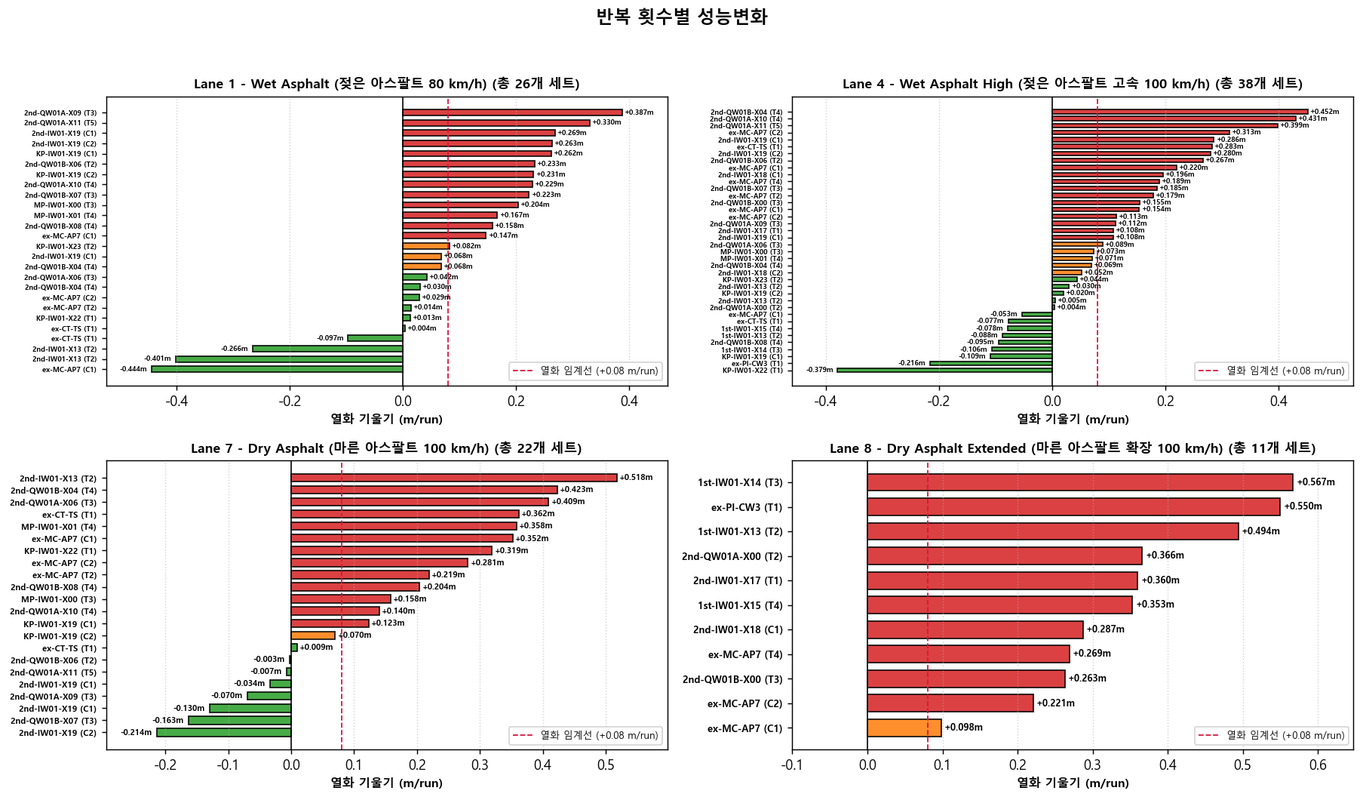
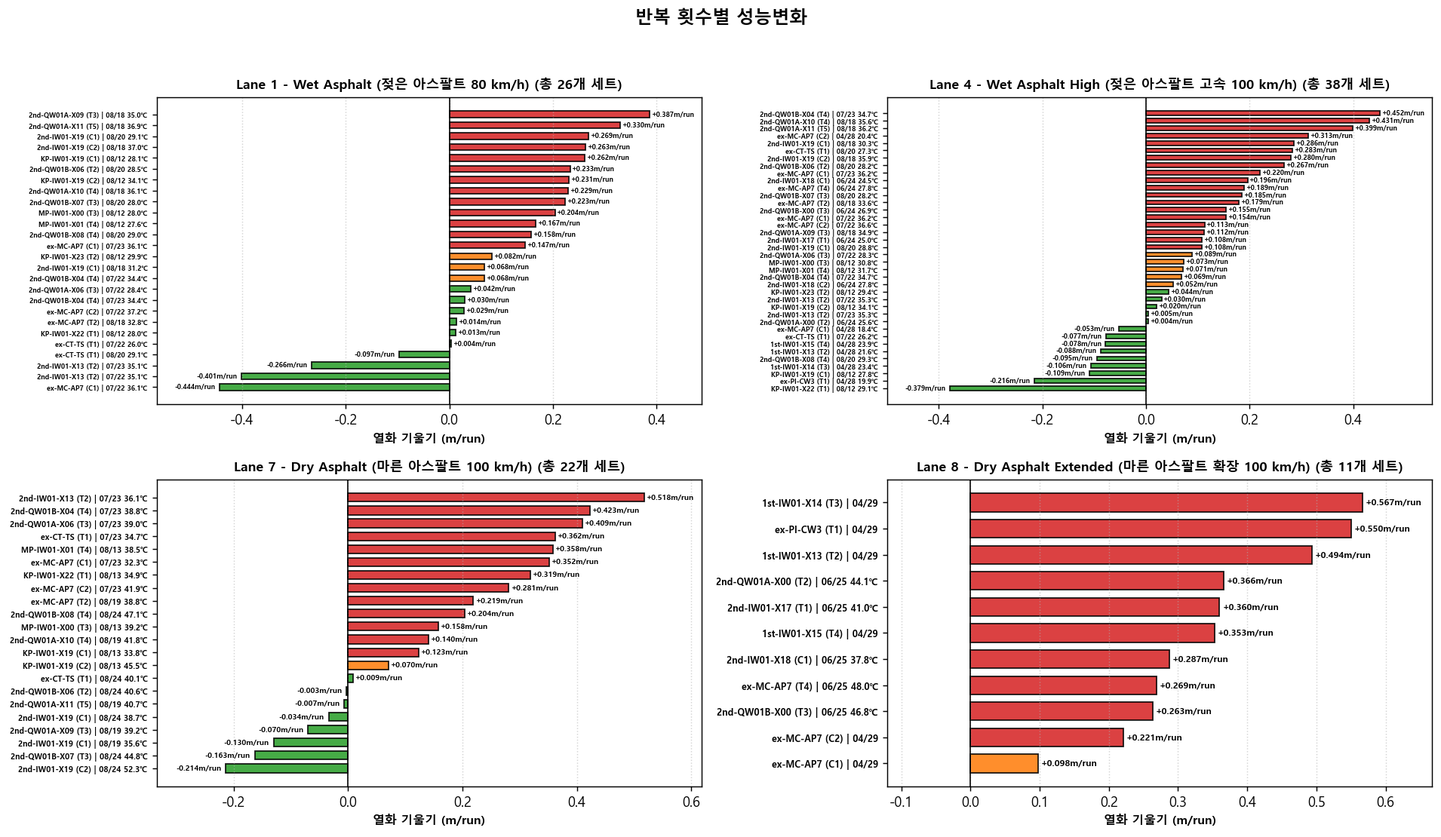
vault backup: 2026-09-16 17:30:54

Changed region(s): [[0.0, 0.0934, 1.0, 0.9962], [0.4339, 0.0, 0.5578, 0.0311]]

diff --git a/02_Projects/회사_업무/10_Braking_AutoBuild/10_EV3_IW01_Integrated_Braking_Analysis_Report.md b/02_Projects/회사_업무/10_Braking_AutoBuild/10_EV3_IW01_Integrated_Braking_Analysis_Report.md
@@ -23,7 +23,7 @@ project_link: "[[02_Projects/회사_업무/10_Braking_AutoBuild/00_Braking_AutoB
 # 🚗 EV3 IW01 실차 제동 성능 종합 공학 분석 마스터 리포트
 ### Engineering Whitepaper: Surface Separation, Control Baseline, Temperature Sensitivity & Anchor Recalibration
 
-> **보고서 생성일시**: `2026-09-16 17:06` | **분석 프로젝트**: `EV3 IW01 제동 평가 (2026)`  
+> **보고서 생성일시**: `2026-09-16 17:20` | **분석 프로젝트**: `EV3 IW01 제동 평가 (2026)`  
 > **시험 차량**: `기아 EV3 (FF Layout / EV)` | **시험 장소**: `TR 실차 주행시험장`  
 > **평가 노면**: `Wet (Lane 1, Lane 4)` / `Dry (Lane 7, Lane 8)` | **분석 데이터셋**: 총 97회차 평가 데이터
 
@@ -885,135 +885,135 @@ project_link: "[[02_Projects/회사_업무/10_Braking_AutoBuild/00_Braking_AutoB
 ### 9.1. 타이어 스펙별(몰드-패턴-마킹) 열화 내구성 & 안정성 종합 등급 매트릭스
 전체 시험 세션에 걸쳐 각 타이어 스펙이 8회 반복 제동 동안 보여준 런당 열화 기울기(Slope), 변동계수(CV), 최대 편차폭을 종합 평가한 등급표입니다.
 
-| 타이어 표기 (몰드-패턴-마킹) | 스펙넘버 | 몰드 | 패턴 | 마킹 | 세션수 | 총런수 | 평균거리(m) | 열화기울기(m/run) | 런CV(%) | 최대편차(m) | 안정성 등급 | 공학적 평가 소견 |
-| :--- | :--- | :--- | :--- | :--- | ---: | ---: | ---: | ---: | ---: | ---: | :--- | :--- |
-| KP-IW01-X22 | KPKT1033338X00022 | KP | IW01 | X22 | 3 | 15 | 38.85 | -0.02 | 1.59 | 2.56 | Grade A (우수) | 안정적인 반복 제동 성능을 유지하며 열화 억제력 우수 |
-| 1st-IW01-X13 | KPKT1033338X00013 | 1st | IW01 | X13 | 5 | 36 | 38.32 | 0.04 | 1.57 | 3.54 | Grade A (우수) | 안정적인 반복 제동 성능을 유지하며 열화 억제력 우수 |
-| KP-IW01-X23 | KPKT1033338X00023 | KP | IW01 | X23 | 2 | 8 | 31.71 | 0.06 | 0.56 | 0.69 | Grade A (우수) | 안정적인 반복 제동 성능을 유지하며 열화 억제력 우수 |
-| ex-CT-TS | EXT-2024-00280 | ex | CT | TS | 6 | 33 | 38.36 | 0.08 | 1.19 | 2.91 | Grade B- (열화 주의) | 런 차수가 증가함에 따라 제동거리가 점진적으로 늘어나는 페이드 경향 확인 |
-| 2nd-QW01B-X07 | KPKT1039980X00007 | 2nd | QW01B | X07 | 3 | 16 | 37.11 | 0.08 | 1.22 | 1.99 | Grade B- (열화 주의) | 런 차수가 증가함에 따라 제동거리가 점진적으로 늘어나는 페이드 경향 확인 |
-| 2nd-QW01B-X08 | KPKT1039979X00008 | 2nd | QW01B | X08 | 3 | 16 | 37.74 | 0.09 | 1.23 | 2.32 | Grade B- (열화 주의) | 런 차수가 증가함에 따라 제동거리가 점진적으로 늘어나는 페이드 경향 확인 |
-| KP-IW01-X19 | KPKT1033338X00019 | KP | IW01 | X19 | 9 | 78 | 37.41 | 0.10 | 1.21 | 2.27 | Grade B- (열화 주의) | 런 차수가 증가함에 따라 제동거리가 점진적으로 늘어나는 페이드 경향 확인 |
-| ex-MC-AP7 | EXT-2026-00147 | ex | MC | AP7 | 10 | 98 | 39.25 | 0.14 | 1.35 | 3.01 | Grade B- (열화 주의) | 런 차수가 증가함에 따라 제동거리가 점진적으로 늘어나는 페이드 경향 확인 |
-| 1st-IW01-X15 | KPKT1033338X00015 | 1st | IW01 | X15 | 2 | 13 | 38.73 | 0.14 | 1.40 | 1.92 | Grade B- (열화 주의) | 런 차수가 증가함에 따라 제동거리가 점진적으로 늘어나는 페이드 경향 확인 |
-| 2nd-QW01A-X09 | KPKT1039979X00009 | 2nd | QW01A | X09 | 3 | 16 | 37.29 | 0.14 | 1.40 | 2.28 | Grade B- (열화 주의) | 런 차수가 증가함에 따라 제동거리가 점진적으로 늘어나는 페이드 경향 확인 |
-| MP-IW01-X00 | MPKT1034557X00000 | MP | IW01 | X00 | 3 | 15 | 39.22 | 0.14 | 1.36 | 1.69 | Grade B- (열화 주의) | 런 차수가 증가함에 따라 제동거리가 점진적으로 늘어나는 페이드 경향 확인 |
-| 2nd-QW01B-X06 | KPKT1039980X00006 | 2nd | QW01B | X06 | 3 | 16 | 37.21 | 0.17 | 1.37 | 1.80 | Grade B- (열화 주의) | 런 차수가 증가함에 따라 제동거리가 점진적으로 늘어나는 페이드 경향 확인 |
-| ex-PI-CW3 | EXT-2026-00148 | ex | PI | CW3 | 2 | 13 | 37.61 | 0.17 | 2.60 | 3.49 | Grade B- (열화 주의) | 런 차수가 증가함에 따라 제동거리가 점진적으로 늘어나는 페이드 경향 확인 |
-| 2nd-IW01-X18 | KPKT1033338X00018 | 2nd | IW01 | X18 | 2 | 22 | 39.50 | 0.18 | 1.50 | 2.53 | Grade B- (열화 주의) | 런 차수가 증가함에 따라 제동거리가 점진적으로 늘어나는 페이드 경향 확인 |
-| 2nd-QW01A-X06 | KPKT1039979X00006 | 2nd | QW01A | X06 | 3 | 16 | 40.79 | 0.18 | 1.71 | 2.92 | Grade B- (열화 주의) | 런 차수가 증가함에 따라 제동거리가 점진적으로 늘어나는 페이드 경향 확인 |
-| 2nd-QW01A-X00 | KPKT1039979X00000 | 2nd | QW01A | X00 | 2 | 16 | 41.77 | 0.18 | 1.99 | 3.13 | Grade B- (열화 주의) | 런 차수가 증가함에 따라 제동거리가 점진적으로 늘어나는 페이드 경향 확인 |
-| MP-IW01-X01 | MPKT1034557X00001 | MP | IW01 | X01 | 3 | 15 | 39.26 | 0.20 | 1.34 | 3.01 | Grade B- (열화 주의) | 런 차수가 증가함에 따라 제동거리가 점진적으로 늘어나는 페이드 경향 확인 |
-| 2nd-QW01B-X04 | KPKT1039980X00004 | 2nd | QW01B | X04 | 3 | 23 | 37.84 | 0.21 | 1.25 | 3.16 | Grade B- (열화 주의) | 런 차수가 증가함에 따라 제동거리가 점진적으로 늘어나는 페이드 경향 확인 |
-| 2nd-QW01B-X00 | KPKT1039980X00000 | 2nd | QW01B | X00 | 2 | 16 | 41.36 | 0.21 | 2.06 | 2.91 | Grade B- (열화 주의) | 런 차수가 증가함에 따라 제동거리가 점진적으로 늘어나는 페이드 경향 확인 |
-| 1st-IW01-X14 | KPKT1033338X00014 | 1st | IW01 | X14 | 2 | 13 | 38.63 | 0.23 | 2.49 | 3.32 | Grade B- (열화 주의) | 런 차수가 증가함에 따라 제동거리가 점진적으로 늘어나는 페이드 경향 확인 |
-| 2nd-IW01-X17 | KPKT1033338X00017 | 2nd | IW01 | X17 | 2 | 15 | 41.88 | 0.23 | 2.00 | 4.24 | Grade B- (열화 주의) | 런 차수가 증가함에 따라 제동거리가 점진적으로 늘어나는 페이드 경향 확인 |
-| 2nd-QW01A-X11 | KPKT1039979X00011 | 2nd | QW01A | X11 | 3 | 16 | 37.37 | 0.24 | 1.55 | 2.07 | Grade B- (열화 주의) | 런 차수가 증가함에 따라 제동거리가 점진적으로 늘어나는 페이드 경향 확인 |
-| 2nd-QW01A-X10 | KPKT1039979X00010 | 2nd | QW01A | X10 | 3 | 16 | 37.27 | 0.27 | 1.42 | 1.47 | Grade B- (열화 주의) | 런 차수가 증가함에 따라 제동거리가 점진적으로 늘어나는 페이드 경향 확인 |
+| 타이어 표기 (몰드-패턴-마킹) | 스펙넘버 | 몰드 | 패턴 | 마킹 | 시험일자 | 평균노면온도(℃) | 세션수 | 총런수 | 평균거리(m) | 열화기울기(m/run) | 런CV(%) | 최대편차(m) | 안정성 등급 | 공학적 평가 소견 |
+| :--- | :--- | :--- | :--- | :--- | :--- | ---: | ---: | ---: | ---: | ---: | ---: | ---: | :--- | :--- |
+| KP-IW01-X22 | KPKT1033338X00022 | KP | IW01 | X22 | 08/12~08/13 | 30.70 | 3 | 15 | 38.85 | -0.02 | 1.59 | 2.56 | Grade A (우수) | 안정적인 반복 제동 성능을 유지하며 열화 억제력 우수 |
+| 1st-IW01-X13 | KPKT1033338X00013 | 1st | IW01 | X13 | 04/28~07/23 | 33.10 | 5 | 36 | 38.32 | 0.04 | 1.57 | 3.54 | Grade A (우수) | 안정적인 반복 제동 성능을 유지하며 열화 억제력 우수 |
+| KP-IW01-X23 | KPKT1033338X00023 | KP | IW01 | X23 | 08/12 | 29.60 | 2 | 8 | 31.71 | 0.06 | 0.56 | 0.69 | Grade A (우수) | 안정적인 반복 제동 성능을 유지하며 열화 억제력 우수 |
+| ex-CT-TS | EXT-2024-00280 | ex | CT | TS | 07/22~08/24 | 30.60 | 6 | 33 | 38.36 | 0.08 | 1.19 | 2.91 | Grade B- (열화 주의) | 런 차수가 증가함에 따라 제동거리가 점진적으로 늘어나는 페이드 경향 확인 |
+| 2nd-QW01B-X07 | KPKT1039980X00007 | 2nd | QW01B | X07 | 08/20~08/24 | 33.70 | 3 | 16 | 37.11 | 0.08 | 1.22 | 1.99 | Grade B- (열화 주의) | 런 차수가 증가함에 따라 제동거리가 점진적으로 늘어나는 페이드 경향 확인 |
+| 2nd-QW01B-X08 | KPKT1039979X00008 | 2nd | QW01B | X08 | 08/20~08/24 | 35.10 | 3 | 16 | 37.74 | 0.09 | 1.23 | 2.32 | Grade B- (열화 주의) | 런 차수가 증가함에 따라 제동거리가 점진적으로 늘어나는 페이드 경향 확인 |
+| KP-IW01-X19 | KPKT1033338X00019 | KP | IW01 | X19 | 08/12~08/24 | 34.80 | 9 | 78 | 37.41 | 0.10 | 1.21 | 2.27 | Grade B- (열화 주의) | 런 차수가 증가함에 따라 제동거리가 점진적으로 늘어나는 페이드 경향 확인 |
+| ex-MC-AP7 | EXT-2026-00147 | ex | MC | AP7 | 04/28~08/19 | 34.20 | 10 | 98 | 39.25 | 0.14 | 1.35 | 3.01 | Grade B- (열화 주의) | 런 차수가 증가함에 따라 제동거리가 점진적으로 늘어나는 페이드 경향 확인 |
+| 1st-IW01-X15 | KPKT1033338X00015 | 1st | IW01 | X15 | 04/28~04/29 | 23.90 | 2 | 13 | 38.73 | 0.14 | 1.40 | 1.92 | Grade B- (열화 주의) | 런 차수가 증가함에 따라 제동거리가 점진적으로 늘어나는 페이드 경향 확인 |
+| 2nd-QW01A-X09 | KPKT1039979X00009 | 2nd | QW01A | X09 | 08/18~08/19 | 36.40 | 3 | 16 | 37.29 | 0.14 | 1.40 | 2.28 | Grade B- (열화 주의) | 런 차수가 증가함에 따라 제동거리가 점진적으로 늘어나는 페이드 경향 확인 |
+| MP-IW01-X00 | MPKT1034557X00000 | MP | IW01 | X00 | 08/12~08/13 | 32.70 | 3 | 15 | 39.22 | 0.14 | 1.36 | 1.69 | Grade B- (열화 주의) | 런 차수가 증가함에 따라 제동거리가 점진적으로 늘어나는 페이드 경향 확인 |
+| 2nd-QW01B-X06 | KPKT1039980X00006 | 2nd | QW01B | X06 | 08/20~08/24 | 32.40 | 3 | 16 | 37.21 | 0.17 | 1.37 | 1.80 | Grade B- (열화 주의) | 런 차수가 증가함에 따라 제동거리가 점진적으로 늘어나는 페이드 경향 확인 |
+| ex-PI-CW3 | EXT-2026-00148 | ex | PI | CW3 | 04/28~04/29 | 19.90 | 2 | 13 | 37.61 | 0.17 | 2.60 | 3.49 | Grade B- (열화 주의) | 런 차수가 증가함에 따라 제동거리가 점진적으로 늘어나는 페이드 경향 확인 |
+| 2nd-IW01-X18 | KPKT1033338X00018 | 2nd | IW01 | X18 | 06/24~06/25 | 30.00 | 2 | 22 | 39.50 | 0.18 | 1.50 | 2.53 | Grade B- (열화 주의) | 런 차수가 증가함에 따라 제동거리가 점진적으로 늘어나는 페이드 경향 확인 |
+| 2nd-QW01A-X06 | KPKT1039979X00006 | 2nd | QW01A | X06 | 07/22~07/23 | 31.90 | 3 | 16 | 40.79 | 0.18 | 1.71 | 2.92 | Grade B- (열화 주의) | 런 차수가 증가함에 따라 제동거리가 점진적으로 늘어나는 페이드 경향 확인 |
+| 2nd-QW01A-X00 | KPKT1039979X00000 | 2nd | QW01A | X00 | 06/24~06/25 | 34.90 | 2 | 16 | 41.77 | 0.18 | 1.99 | 3.13 | Grade B- (열화 주의) | 런 차수가 증가함에 따라 제동거리가 점진적으로 늘어나는 페이드 경향 확인 |
+| MP-IW01-X01 | MPKT1034557X00001 | MP | IW01 | X01 | 08/12~08/13 | 32.60 | 3 | 15 | 39.26 | 0.20 | 1.34 | 3.01 | Grade B- (열화 주의) | 런 차수가 증가함에 따라 제동거리가 점진적으로 늘어나는 페이드 경향 확인 |
+| 2nd-QW01B-X04 | KPKT1039980X00004 | 2nd | QW01B | X04 | 07/22~07/23 | 35.40 | 3 | 23 | 37.84 | 0.21 | 1.25 | 3.16 | Grade B- (열화 주의) | 런 차수가 증가함에 따라 제동거리가 점진적으로 늘어나는 페이드 경향 확인 |
+| 2nd-QW01B-X00 | KPKT1039980X00000 | 2nd | QW01B | X00 | 06/24~06/25 | 36.80 | 2 | 16 | 41.36 | 0.21 | 2.06 | 2.91 | Grade B- (열화 주의) | 런 차수가 증가함에 따라 제동거리가 점진적으로 늘어나는 페이드 경향 확인 |
+| 1st-IW01-X14 | KPKT1033338X00014 | 1st | IW01 | X14 | 04/28~04/29 | 23.40 | 2 | 13 | 38.63 | 0.23 | 2.49 | 3.32 | Grade B- (열화 주의) | 런 차수가 증가함에 따라 제동거리가 점진적으로 늘어나는 페이드 경향 확인 |
+| 2nd-IW01-X17 | KPKT1033338X00017 | 2nd | IW01 | X17 | 06/24~06/25 | 33.00 | 2 | 15 | 41.88 | 0.23 | 2.00 | 4.24 | Grade B- (열화 주의) | 런 차수가 증가함에 따라 제동거리가 점진적으로 늘어나는 페이드 경향 확인 |
+| 2nd-QW01A-X11 | KPKT1039979X00011 | 2nd | QW01A | X11 | 08/18~08/19 | 37.90 | 3 | 16 | 37.37 | 0.24 | 1.55 | 2.07 | Grade B- (열화 주의) | 런 차수가 증가함에 따라 제동거리가 점진적으로 늘어나는 페이드 경향 확인 |
+| 2nd-QW01A-X10 | KPKT1039979X00010 | 2nd | QW01A | X10 | 08/18~08/19 | 37.80 | 3 | 16 | 37.27 | 0.27 | 1.42 | 1.47 | Grade B- (열화 주의) | 런 차수가 증가함에 따라 제동거리가 점진적으로 늘어나는 페이드 경향 확인 |
 
 
 ### 9.2. 세부 세션별 8회 반복 제동 순차 실측치(Run 1 ~ Run 8) 전개 피벗 표
 각 시험 의뢰서 및 레인별로 평가된 모든 타이어 세트의 1회차부터 8회차까지의 실측 제동거리와 통계치입니다.
 
-| 의뢰번호 | 레인 | 노면 | 세트 | 타이어 표기 (몰드-패턴-마킹) | 스펙넘버 | 1회(m) | 2회(m) | 3회(m) | 4회(m) | 5회(m) | 6회(m) | 7회(m) | 8회(m) | 평균(m) | CV(%) | 편차(m) | 기울기(m/run) | 거동판정 |
-| :--- | :--- | :--- | :--- | :--- | :--- | ---: | ---: | ---: | ---: | ---: | ---: | ---: | ---: | ---: | ---: | ---: | ---: | :--- |
-| 26RE040025KF | lane4 | wet | C1 | ex-MC-AP7 | EXT-2026-00147 | 33.43 | 32.04 | 33.23 | 32.37 | 32.88 | 32.72 | - | - | 32.78 | 1.59 | 1.39 | -0.05 | 안정적 (Stable) |
-| 26RE040025KF | lane4 | wet | C2 | ex-MC-AP7 | EXT-2026-00147 | 32.36 | 33.11 | 33.52 | 33.24 | 33.86 | - | - | - | 33.22 | 1.69 | 1.50 | 0.31 | ⚠ 점진적 열화 (Fade) |
-| 26RE040025KF | lane4 | wet | T1 | ex-PI-CW3 | EXT-2026-00148 | 31.58 | 30.71 | 31.25 | 31.30 | 29.65 | 30.70 | - | - | 30.87 | 2.24 | 1.93 | -0.22 | ❄ 웜업/접지 향상 (Warm-up) |
-| 26RE040025KF | lane4 | wet | T2 | 1st-IW01-X13 | KPKT1033338X00013 | 32.52 | 31.66 | 31.57 | 32.57 | 31.44 | 31.84 | - | - | 31.93 | 1.54 | 1.13 | -0.09 | 안정적 (Stable) |
-| 26RE040025KF | lane4 | wet | T3 | 1st-IW01-X14 | KPKT1033338X00014 | 32.71 | 31.21 | 32.49 | 31.00 | 31.51 | 32.09 | - | - | 31.83 | 2.20 | 1.71 | -0.11 | ❄ 웜업/접지 향상 (Warm-up) |
-| 26RE040025KF | lane4 | wet | T4 | 1st-IW01-X15 | KPKT1033338X00015 | 32.13 | 32.03 | 31.86 | 31.19 | 31.82 | 31.84 | - | - | 31.81 | 1.03 | 0.94 | -0.08 | 안정적 (Stable) |
-| 26RE040025KF | lane8 | dry | C1 | ex-MC-AP7 | EXT-2026-00147 | 43.09 | 43.81 | 43.32 | 43.26 | 44.11 | 43.01 | 44.27 | - | 43.55 | 1.17 | 1.26 | 0.10 | 안정적 (Stable) |
-| 26RE040025KF | lane8 | dry | C2 | ex-MC-AP7 | EXT-2026-00147 | 43.00 | 43.52 | 43.29 | 43.35 | 43.78 | 44.78 | 44.06 | - | 43.68 | 1.36 | 1.78 | 0.22 | ⚠ 점진적 열화 (Fade) |
-| 26RE040025KF | lane8 | dry | T1 | ex-PI-CW3 | EXT-2026-00148 | 41.32 | 42.61 | 42.41 | 44.32 | 43.99 | 44.28 | 44.81 | - | 43.39 | 2.96 | 3.49 | 0.55 | ⚠ 점진적 열화 (Fade) |
-| 26RE040025KF | lane8 | dry | T2 | 1st-IW01-X13 | KPKT1033338X00013 | 43.32 | 42.70 | 44.48 | 44.89 | 44.27 | 45.78 | 45.95 | - | 44.49 | 2.69 | 3.25 | 0.49 | ⚠ 점진적 열화 (Fade) |
-| 26RE040025KF | lane8 | dry | T3 | 1st-IW01-X14 | KPKT1033338X00014 | 42.70 | 43.31 | 43.78 | 44.77 | 45.03 | 45.64 | 46.03 | - | 44.46 | 2.77 | 3.32 | 0.57 | ⚠ 점진적 열화 (Fade) |
-| 26RE040025KF | lane8 | dry | T4 | 1st-IW01-X15 | KPKT1033338X00015 | 43.86 | 43.76 | 44.24 | 44.43 | 45.23 | 45.47 | 45.68 | - | 44.67 | 1.76 | 1.92 | 0.35 | ⚠ 점진적 열화 (Fade) |
-| 26RE060023KF | lane4 | wet | C1 | 2nd-IW01-X18 | KPKT1033338X00018 | 33.83 | 34.14 | 34.08 | 34.36 | 35.18 | 35.29 | 34.53 | - | 34.49 | 1.61 | 1.46 | 0.20 | ⚠ 점진적 열화 (Fade) |
-| 26RE060023KF | lane4 | wet | C2 | 2nd-IW01-X18 | KPKT1033338X00018 | 34.84 | 35.17 | 36.13 | 35.09 | 35.58 | 35.24 | 35.47 | - | 35.36 | 1.18 | 1.29 | 0.05 | 안정적 (Stable) |
-| 26RE060023KF | lane4 | wet | T1 | 2nd-IW01-X17 | KPKT1033338X00017 | 34.96 | 35.11 | 35.11 | 34.55 | 35.66 | 34.91 | 35.92 | - | 35.18 | 1.32 | 1.37 | 0.11 | ⚠ 점진적 열화 (Fade) |
-| 26RE060023KF | lane4 | wet | T2 | 2nd-QW01A-X00 | KPKT1039979X00000 | 35.04 | 36.48 | 34.82 | 36.44 | 35.15 | 35.58 | 35.43 | 35.70 | 35.58 | 1.73 | 1.66 | 0.00 | 안정적 (Stable) |
-| 26RE060023KF | lane4 | wet | T3 | 2nd-QW01B-X00 | KPKT1039980X00000 | 34.68 | 34.24 | 35.22 | 35.89 | 34.85 | 35.67 | 36.61 | 34.80 | 35.24 | 2.18 | 2.37 | 0.15 | ⚠ 점진적 열화 (Fade) |
-| 26RE060023KF | lane4 | wet | T4 | ex-MC-AP7 | EXT-2026-00147 | 35.41 | 36.22 | 36.49 | 36.82 | 36.08 | 37.80 | 38.15 | 36.67 | 36.72 | 2.29 | 2.74 | 0.19 | ⚠ 점진적 열화 (Fade) |
-| 26RE060023KF | lane8 | dry | C1 | 2nd-IW01-X18 | KPKT1033338X00018 | 45.83 | 46.92 | 47.40 | 47.59 | 48.19 | 47.62 | 48.37 | 48.07 | 47.50 | 1.72 | 2.53 | 0.29 | ⚠ 점진적 열화 (Fade) |
-| 26RE060023KF | lane8 | dry | T1 | 2nd-IW01-X17 | KPKT1033338X00017 | 45.21 | 47.05 | 47.39 | 48.13 | 49.45 | 48.75 | 47.66 | 48.33 | 47.75 | 2.68 | 4.24 | 0.36 | ⚠ 점진적 열화 (Fade) |
-| 26RE060023KF | lane8 | dry | T2 | 2nd-QW01A-X00 | KPKT1039979X00000 | 45.86 | 46.99 | 48.01 | 48.05 | 48.90 | 48.88 | 48.07 | 48.99 | 47.97 | 2.25 | 3.13 | 0.37 | ⚠ 점진적 열화 (Fade) |
-| 26RE060023KF | lane8 | dry | T3 | 2nd-QW01B-X00 | KPKT1039980X00000 | 45.45 | 46.88 | 47.63 | 47.93 | 48.37 | 47.99 | 47.78 | 47.75 | 47.47 | 1.93 | 2.91 | 0.26 | ⚠ 점진적 열화 (Fade) |
-| 26RE060023KF | lane8 | dry | T4 | ex-MC-AP7 | EXT-2026-00147 | 45.45 | 46.22 | 46.72 | 47.23 | 48.14 | 47.70 | 46.84 | 47.69 | 47.00 | 1.87 | 2.69 | 0.27 | ⚠ 점진적 열화 (Fade) |
-| 26RE070033KF | lane1 | wet | C1 | ex-MC-AP7 | EXT-2026-00147 | 31.40 | 31.12 | 30.51 | - | - | - | - | - | 31.01 | 1.47 | 0.89 | -0.44 | ❄ 웜업/접지 향상 (Warm-up) |
-| 26RE070033KF | lane1 | wet | T1 | ex-CT-TS | EXT-2024-00280 | 31.59 | 32.03 | 31.59 | - | - | - | - | - | 31.74 | 0.80 | 0.45 | 0.00 | ✅ 초고안정 (High Stable) |
-| 26RE070033KF | lane1 | wet | T2 | 2nd-IW01-X13 | KPKT1033338X00013 | 30.95 | 30.81 | 30.15 | - | - | - | - | - | 30.64 | 1.40 | 0.80 | -0.40 | ❄ 웜업/접지 향상 (Warm-up) |
-| 26RE070033KF | lane1 | wet | T3 | 2nd-QW01A-X06 | KPKT1039979X00006 | 31.25 | 30.04 | 31.34 | - | - | - | - | - | 30.88 | 2.35 | 1.30 | 0.04 | 안정적 (Stable) |
-| 26RE070033KF | lane1 | wet | T4 | 2nd-QW01B-X04 | KPKT1039980X00004 | 29.77 | 29.52 | 29.90 | - | - | - | - | - | 29.73 | 0.66 | 0.39 | 0.07 | ✅ 초고안정 (High Stable) |
-| 26RE070033KF | lane1 | wet | C2 | ex-MC-AP7 | EXT-2026-00147 | 31.71 | 31.85 | 31.77 | - | - | - | - | - | 31.78 | 0.22 | 0.14 | 0.03 | ✅ 초고안정 (High Stable) |
-| 26RE070033KF | lane4 | wet | C1 | ex-MC-AP7 | EXT-2026-00147 | 35.54 | 35.90 | 36.13 | 35.64 | 36.30 | 36.47 | - | - | 36.00 | 1.02 | 0.94 | 0.15 | ⚠ 점진적 열화 (Fade) |
-| 26RE070033KF | lane4 | wet | T1 | ex-CT-TS | EXT-2024-00280 | 36.82 | 36.05 | 36.45 | 36.84 | 36.38 | 36.00 | - | - | 36.42 | 0.99 | 0.84 | -0.08 | 안정적 (Stable) |
-| 26RE070033KF | lane4 | wet | T2 | 2nd-IW01-X13 | KPKT1033338X00013 | 36.37 | 36.08 | 36.31 | 36.34 | 36.48 | 36.33 | - | - | 36.32 | 0.36 | 0.40 | 0.03 | ✅ 초고안정 (High Stable) |
-| 26RE070033KF | lane4 | wet | T3 | 2nd-QW01A-X06 | KPKT1039979X00006 | 36.25 | 36.38 | 37.02 | 36.71 | 36.75 | 36.72 | - | - | 36.64 | 0.76 | 0.77 | 0.09 | 안정적 (Stable) |
-| 26RE070033KF | lane4 | wet | T4 | 2nd-QW01B-X04 | KPKT1039980X00004 | 35.68 | 35.74 | 35.77 | 35.82 | 36.39 | 35.77 | - | - | 35.86 | 0.73 | 0.71 | 0.07 | 안정적 (Stable) |
-| 26RE070033KF | lane4 | wet | C2 | ex-MC-AP7 | EXT-2026-00147 | 35.98 | 36.78 | 36.42 | 36.66 | 36.78 | 36.72 | - | - | 36.56 | 0.85 | 0.80 | 0.11 | ⚠ 점진적 열화 (Fade) |
-| 26RE070033KF | lane7 | dry | C1 | ex-MC-AP7 | EXT-2026-00147 | 45.29 | 47.03 | 48.06 | 47.91 | 48.30 | 47.91 | 47.92 | - | 47.49 | 2.20 | 3.01 | 0.35 | ⚠ 점진적 열화 (Fade) |
-| 26RE070033KF | lane7 | dry | T1 | ex-CT-TS | EXT-2024-00280 | 46.23 | 47.92 | 47.88 | 48.71 | 48.48 | 48.33 | 49.14 | - | 48.10 | 1.94 | 2.91 | 0.36 | ⚠ 점진적 열화 (Fade) |
-| 26RE070033KF | lane7 | dry | T2 | 2nd-IW01-X13 | KPKT1033338X00013 | 45.53 | 46.57 | 47.27 | 48.83 | 49.06 | 48.38 | 48.55 | - | 47.74 | 2.77 | 3.54 | 0.52 | ⚠ 점진적 열화 (Fade) |
-| 26RE070033KF | lane7 | dry | T3 | 2nd-QW01A-X06 | KPKT1039979X00006 | 47.04 | 47.75 | 48.75 | 48.71 | 48.56 | 49.96 | 49.45 | - | 48.60 | 2.02 | 2.92 | 0.41 | ⚠ 점진적 열화 (Fade) |
-| 26RE070033KF | lane7 | dry | T4 | 2nd-QW01B-X04 | KPKT1039980X00004 | 46.12 | 47.57 | 48.20 | 48.95 | 48.50 | 48.62 | 49.27 | - | 48.18 | 2.19 | 3.16 | 0.42 | ⚠ 점진적 열화 (Fade) |
-| 26RE070033KF | lane7 | dry | C2 | ex-MC-AP7 | EXT-2026-00147 | 46.36 | 47.41 | 48.43 | 48.06 | 47.38 | 48.84 | 48.39 | - | 47.84 | 1.76 | 2.47 | 0.28 | ⚠ 점진적 열화 (Fade) |
-| 26RE070033KF | lane1 | wetre | C1 | ex-MC-AP7 | EXT-2026-00147 | 31.32 | 32.60 | 32.42 | 31.87 | - | - | - | - | 32.05 | 1.80 | 1.28 | 0.15 | ⚠ 점진적 열화 (Fade) |
-| 26RE070033KF | lane1 | wetre | T2 | 2nd-IW01-X13 | KPKT1033338X00013 | 32.08 | 30.84 | 31.11 | 31.10 | - | - | - | - | 31.28 | 1.74 | 1.24 | -0.27 | ❄ 웜업/접지 향상 (Warm-up) |
-| 26RE070033KF | lane1 | wetre | T4 | 2nd-QW01B-X04 | KPKT1039980X00004 | 30.25 | 30.86 | 31.10 | 30.27 | - | - | - | - | 30.62 | 1.39 | 0.85 | 0.03 | 안정적 (Stable) |
-| 26RE070033KF | lane4 | wetre | C1 | ex-MC-AP7 | EXT-2026-00147 | 35.46 | 35.46 | 35.96 | 36.03 | - | - | - | - | 35.73 | 0.87 | 0.57 | 0.22 | ⚠ 점진적 열화 (Fade) |
-| 26RE070033KF | lane4 | wetre | T2 | 2nd-IW01-X13 | KPKT1033338X00013 | 35.68 | 35.98 | 35.69 | - | - | - | - | - | 35.78 | 0.47 | 0.29 | 0.01 | ✅ 초고안정 (High Stable) |
-| 26RE070033KF | lane4 | wetre | T4 | 2nd-QW01B-X04 | KPKT1039980X00004 | 35.02 | 35.36 | 35.93 | - | - | - | - | - | 35.43 | 1.29 | 0.90 | 0.45 | ⚠ 점진적 열화 (Fade) |
-| 26RE070057KF | lane1 | wet | C1 | KP-IW01-X19 | KPKT1033338X00019 | 28.52 | 28.78 | 29.13 | 30.08 | 29.18 | - | - | - | 29.14 | 2.03 | 1.56 | 0.26 | ⚠ 점진적 열화 (Fade) |
-| 26RE070057KF | lane1 | wet | T1 | KP-IW01-X22 | KPKT1033338X00022 | 30.09 | 29.25 | 29.43 | 29.50 | 30.03 | - | - | - | 29.66 | 1.27 | 0.84 | 0.01 | 안정적 (Stable) |
-| 26RE070057KF | lane1 | wet | T2 | KP-IW01-X23 | KPKT1033338X00023 | 29.92 | 30.62 | 30.60 | 30.45 | 30.41 | - | - | - | 30.40 | 0.93 | 0.69 | 0.08 | 안정적 (Stable) |
-| 26RE070057KF | lane1 | wet | T3 | MP-IW01-X00 | MPKT1034557X00000 | 29.90 | 29.32 | 30.62 | 30.90 | 30.13 | - | - | - | 30.17 | 2.05 | 1.58 | 0.20 | ⚠ 점진적 열화 (Fade) |
-| 26RE070057KF | lane1 | wet | T4 | MP-IW01-X01 | MPKT1034557X00001 | 30.09 | 29.78 | 29.51 | 30.05 | 30.79 | - | - | - | 30.05 | 1.59 | 1.28 | 0.17 | ⚠ 점진적 열화 (Fade) |
-| 26RE070057KF | lane1 | wet | C2 | KP-IW01-X19 | KPKT1033338X00019 | 30.10 | 30.57 | 30.17 | 31.17 | 30.96 | - | - | - | 30.59 | 1.54 | 1.07 | 0.23 | ⚠ 점진적 열화 (Fade) |
-| 26RE070057KF | lane4 | wet | C1 | KP-IW01-X19 | KPKT1033338X00019 | 33.57 | 33.30 | 33.35 | - | - | - | - | - | 33.40 | 0.43 | 0.27 | -0.11 | ❄ 웜업/접지 향상 (Warm-up) |
-| 26RE070057KF | lane4 | wet | T1 | KP-IW01-X22 | KPKT1033338X00022 | 34.13 | 32.99 | 33.37 | - | - | - | - | - | 33.49 | 1.73 | 1.14 | -0.38 | ❄ 웜업/접지 향상 (Warm-up) |
-| 26RE070057KF | lane4 | wet | T2 | KP-IW01-X23 | KPKT1033338X00023 | 33.87 | 33.84 | 33.96 | - | - | - | - | - | 33.89 | 0.19 | 0.12 | 0.04 | ✅ 초고안정 (High Stable) |
-| 26RE070057KF | lane4 | wet | T3 | MP-IW01-X00 | MPKT1034557X00000 | 34.31 | 33.92 | 34.46 | - | - | - | - | - | 34.23 | 0.82 | 0.54 | 0.07 | 안정적 (Stable) |
-| 26RE070057KF | lane4 | wet | T4 | MP-IW01-X01 | MPKT1034557X00001 | 34.12 | 34.03 | 34.26 | - | - | - | - | - | 34.14 | 0.34 | 0.23 | 0.07 | ✅ 초고안정 (High Stable) |
-| 26RE070057KF | lane4 | wet | C2 | KP-IW01-X19 | KPKT1033338X00019 | 33.82 | 34.16 | 33.86 | - | - | - | - | - | 33.94 | 0.55 | 0.34 | 0.02 | ✅ 초고안정 (High Stable) |
-| 26RE070057KF | lane7 | dry | C1 | KP-IW01-X19 | KPKT1033338X00019 | 46.90 | 47.09 | 47.85 | 48.89 | 48.12 | 47.52 | 47.67 | - | 47.72 | 1.39 | 1.99 | 0.12 | ⚠ 점진적 열화 (Fade) |
-| 26RE070057KF | lane7 | dry | T1 | KP-IW01-X22 | KPKT1033338X00022 | 46.11 | 47.25 | 48.17 | 47.74 | 48.25 | 47.83 | 48.68 | - | 47.72 | 1.76 | 2.56 | 0.32 | ⚠ 점진적 열화 (Fade) |
-| 26RE070057KF | lane7 | dry | T3 | MP-IW01-X00 | MPKT1034557X00000 | 46.86 | 47.74 | 47.46 | 48.56 | 48.41 | 47.74 | 48.02 | - | 47.83 | 1.20 | 1.69 | 0.16 | ⚠ 점진적 열화 (Fade) |
-| 26RE070057KF | lane7 | dry | T4 | MP-IW01-X01 | MPKT1034557X00001 | 46.27 | 47.20 | 48.42 | 48.29 | 48.68 | 49.28 | 48.14 | - | 48.04 | 2.08 | 3.01 | 0.36 | ⚠ 점진적 열화 (Fade) |
-| 26RE070057KF | lane7 | dry | C2 | KP-IW01-X19 | KPKT1033338X00019 | 46.81 | 46.81 | 46.95 | 46.89 | 47.86 | 47.17 | 46.92 | - | 47.06 | 0.80 | 1.05 | 0.07 | 안정적 (Stable) |
-| 26RE080029KF | lane1 | wet | C1 | 2nd-IW01-X19 | KPKT1033338X00019 | 28.16 | 29.01 | 28.59 | 28.60 | 28.61 | 28.88 | - | - | 28.64 | 1.02 | 0.85 | 0.07 | 안정적 (Stable) |
-| 26RE080029KF | lane1 | wet | T2 | ex-MC-AP7 | EXT-2026-00147 | 28.97 | 28.88 | 28.40 | 28.97 | 28.80 | 29.01 | - | - | 28.84 | 0.79 | 0.61 | 0.01 | 안정적 (Stable) |
-| 26RE080029KF | lane1 | wet | T3 | 2nd-QW01A-X09 | KPKT1039979X00009 | 26.17 | 27.36 | 27.27 | 27.29 | 28.45 | 28.21 | - | - | 27.46 | 2.96 | 2.28 | 0.39 | ⚠ 점진적 열화 (Fade) |
-| 26RE080029KF | lane1 | wet | T4 | 2nd-QW01A-X10 | KPKT1039979X00010 | 26.07 | 27.08 | 27.04 | 27.54 | 27.20 | 27.50 | - | - | 27.07 | 1.97 | 1.47 | 0.23 | ⚠ 점진적 열화 (Fade) |
-| 26RE080029KF | lane1 | wet | T5 | 2nd-QW01A-X11 | KPKT1039979X00011 | 26.24 | 27.04 | 27.53 | 26.95 | 27.64 | 28.31 | - | - | 27.28 | 2.59 | 2.07 | 0.33 | ⚠ 점진적 열화 (Fade) |
-| 26RE080029KF | lane1 | wet | C2 | 2nd-IW01-X19 | KPKT1033338X00019 | 27.11 | 27.74 | 28.91 | 28.39 | 28.62 | 28.53 | - | - | 28.22 | 2.36 | 1.80 | 0.26 | ⚠ 점진적 열화 (Fade) |
-| 26RE080029KF | lane4 | wet | C1 | 2nd-IW01-X19 | KPKT1033338X00019 | 33.61 | 33.76 | 34.18 | - | - | - | - | - | 33.85 | 0.88 | 0.57 | 0.29 | ⚠ 점진적 열화 (Fade) |
-| 26RE080029KF | lane4 | wet | T2 | ex-MC-AP7 | EXT-2026-00147 | 34.87 | 35.20 | 35.23 | - | - | - | - | - | 35.10 | 0.57 | 0.36 | 0.18 | ⚠ 점진적 열화 (Fade) |
-| 26RE080029KF | lane4 | wet | T3 | 2nd-QW01A-X09 | KPKT1039979X00009 | 33.35 | 33.31 | 33.58 | - | - | - | - | - | 33.41 | 0.43 | 0.27 | 0.11 | ⚠ 점진적 열화 (Fade) |
-| 26RE080029KF | lane4 | wet | T4 | 2nd-QW01A-X10 | KPKT1039979X00010 | 32.46 | 33.19 | 33.33 | - | - | - | - | - | 32.99 | 1.41 | 0.86 | 0.43 | ⚠ 점진적 열화 (Fade) |
-| 26RE080029KF | lane4 | wet | T5 | 2nd-QW01A-X11 | KPKT1039979X00011 | 32.92 | 33.28 | 33.72 | - | - | - | - | - | 33.31 | 1.20 | 0.80 | 0.40 | ⚠ 점진적 열화 (Fade) |
-| 26RE080029KF | lane4 | wet | C2 | 2nd-IW01-X19 | KPKT1033338X00019 | 34.07 | 34.16 | 34.63 | - | - | - | - | - | 34.29 | 0.88 | 0.56 | 0.28 | ⚠ 점진적 열화 (Fade) |
-| 26RE080029KF | lane7 | dry | C1 | 2nd-IW01-X19 | KPKT1033338X00019 | 46.72 | 45.75 | 45.48 | 45.99 | 46.19 | 45.43 | 45.48 | - | 45.86 | 1.03 | 1.29 | -0.13 | ❄ 웜업/접지 향상 (Warm-up) |
-| 26RE080029KF | lane7 | dry | T2 | ex-MC-AP7 | EXT-2026-00147 | 45.42 | 46.32 | 46.34 | 47.32 | 46.91 | 47.00 | 46.81 | - | 46.59 | 1.35 | 1.90 | 0.22 | ⚠ 점진적 열화 (Fade) |
-| 26RE080029KF | lane7 | dry | T3 | 2nd-QW01A-X09 | KPKT1039979X00009 | 47.95 | 47.24 | 46.99 | 47.77 | 47.19 | 47.59 | 46.99 | - | 47.39 | 0.81 | 0.96 | -0.07 | 안정적 (Stable) |
-| 26RE080029KF | lane7 | dry | T4 | 2nd-QW01A-X10 | KPKT1039979X00010 | 47.59 | 47.22 | 47.80 | 47.58 | 48.49 | 48.04 | 48.12 | - | 47.83 | 0.87 | 1.26 | 0.14 | ⚠ 점진적 열화 (Fade) |
-| 26RE080029KF | lane7 | dry | T5 | 2nd-QW01A-X11 | KPKT1039979X00011 | 47.51 | 47.48 | 47.97 | 48.18 | 48.09 | 48.02 | 47.05 | - | 47.76 | 0.87 | 1.13 | -0.01 | 안정적 (Stable) |
-| 26RE080030KF | lane1 | wet | T2 | 2nd-QW01B-X06 | KPKT1039980X00006 | 26.43 | 26.24 | 26.67 | 26.33 | 27.05 | 27.64 | - | - | 26.73 | 2.00 | 1.40 | 0.23 | ⚠ 점진적 열화 (Fade) |
-| 26RE080030KF | lane1 | wet | T3 | 2nd-QW01B-X07 | KPKT1039980X00007 | 26.13 | 26.43 | 26.46 | 26.49 | 26.76 | 27.49 | - | - | 26.63 | 1.76 | 1.36 | 0.22 | ⚠ 점진적 열화 (Fade) |
-| 26RE080030KF | lane1 | wet | T4 | 2nd-QW01B-X08 | KPKT1039979X00008 | 25.84 | 26.84 | 26.88 | 26.91 | 26.67 | 27.04 | - | - | 26.70 | 1.63 | 1.20 | 0.16 | ⚠ 점진적 열화 (Fade) |
-| 26RE080030KF | lane1 | wet | C1 | 2nd-IW01-X19 | KPKT1033338X00019 | 26.01 | 26.32 | 26.77 | 27.02 | 26.93 | 27.48 | - | - | 26.76 | 1.96 | 1.46 | 0.27 | ⚠ 점진적 열화 (Fade) |
-| 26RE080030KF | lane1 | wet | T1 | ex-CT-TS | EXT-2024-00280 | 26.75 | 27.43 | 26.93 | 26.24 | 26.57 | 26.73 | - | - | 26.78 | 1.48 | 1.19 | -0.10 | 안정적 (Stable) |
-| 26RE080030KF | lane4 | wet | T1 | ex-CT-TS | EXT-2024-00280 | 33.60 | 34.32 | 33.95 | 34.66 | - | - | - | - | 34.13 | 1.35 | 1.06 | 0.28 | ⚠ 점진적 열화 (Fade) |
-| 26RE080030KF | lane4 | wet | T2 | 2nd-QW01B-X06 | KPKT1039980X00006 | 34.83 | 35.34 | 35.36 | - | - | - | - | - | 35.18 | 0.86 | 0.53 | 0.27 | ⚠ 점진적 열화 (Fade) |
-| 26RE080030KF | lane4 | wet | T3 | 2nd-QW01B-X07 | KPKT1039980X00007 | 34.32 | 34.51 | 34.69 | - | - | - | - | - | 34.51 | 0.54 | 0.37 | 0.18 | ⚠ 점진적 열화 (Fade) |
-| 26RE080030KF | lane4 | wet | T4 | 2nd-QW01B-X08 | KPKT1039979X00008 | 34.51 | 34.47 | 34.32 | - | - | - | - | - | 34.44 | 0.29 | 0.19 | -0.10 | ✅ 초고안정 (High Stable) |
-| 26RE080030KF | lane4 | wet | C1 | 2nd-IW01-X19 | KPKT1033338X00019 | 34.36 | 33.69 | 34.64 | 34.40 | - | - | - | - | 34.27 | 1.19 | 0.95 | 0.11 | ⚠ 점진적 열화 (Fade) |
-| 26RE080030KF | lane7 | dry | C1 | 2nd-IW01-X19 | KPKT1033338X00019 | 45.00 | 45.05 | 45.14 | 45.49 | 44.99 | 44.88 | 44.85 | - | 45.06 | 0.48 | 0.65 | -0.03 | 안정적 (Stable) |
-| 26RE080030KF | lane7 | dry | T1 | ex-CT-TS | EXT-2024-00280 | 45.30 | 45.22 | 45.69 | 45.48 | 45.90 | 45.18 | 45.34 | - | 45.44 | 0.58 | 0.72 | 0.01 | 안정적 (Stable) |
-| 26RE080030KF | lane7 | dry | T2 | 2nd-QW01B-X06 | KPKT1039980X00006 | 47.02 | 46.64 | 46.88 | 47.49 | 48.14 | 46.98 | 46.34 | - | 47.07 | 1.25 | 1.80 | -0.00 | 안정적 (Stable) |
-| 26RE080030KF | lane7 | dry | T3 | 2nd-QW01B-X07 | KPKT1039980X00007 | 47.09 | 47.48 | 47.93 | 47.62 | 46.99 | 47.38 | 45.94 | - | 47.20 | 1.35 | 1.99 | -0.16 | ❄ 웜업/접지 향상 (Warm-up) |
-| 26RE080030KF | lane7 | dry | T4 | 2nd-QW01B-X08 | KPKT1039979X00008 | 47.15 | 48.03 | 49.05 | 49.47 | 49.36 | 49.13 | 48.22 | - | 48.63 | 1.76 | 2.32 | 0.20 | ⚠ 점진적 열화 (Fade) |
-| 26RE080030KF | lane7 | dry | C2 | 2nd-IW01-X19 | KPKT1033338X00019 | 45.82 | 45.89 | 45.82 | 46.66 | 45.51 | 44.38 | - | - | 45.68 | 1.62 | 2.27 | -0.21 | ❄ 웜업/접지 향상 (Warm-up) |
+| 의뢰번호 | 레인 | 노면 | 세트 | 타이어 표기 (몰드-패턴-마킹) | 스펙넘버 | 시험일자 | 노면온도(℃) | 1회(m) | 2회(m) | 3회(m) | 4회(m) | 5회(m) | 6회(m) | 7회(m) | 8회(m) | 평균(m) | CV(%) | 편차(m) | 기울기(m/run) | 거동판정 |
+| :--- | :--- | :--- | :--- | :--- | :--- | :--- | ---: | ---: | ---: | ---: | ---: | ---: | ---: | ---: | ---: | ---: | ---: | ---: | ---: | :--- |
+| 26RE040025KF | lane4 | wet | C1 | ex-MC-AP7 | EXT-2026-00147 | 04/28 | 18.40 | 33.43 | 32.04 | 33.23 | 32.37 | 32.88 | 32.72 | - | - | 32.78 | 1.59 | 1.39 | -0.05 | 안정적 (Stable) |
+| 26RE040025KF | lane4 | wet | C2 | ex-MC-AP7 | EXT-2026-00147 | 04/28 | 20.40 | 32.36 | 33.11 | 33.52 | 33.24 | 33.86 | - | - | - | 33.22 | 1.69 | 1.50 | 0.31 | ⚠ 점진적 열화 (Fade) |
+| 26RE040025KF | lane4 | wet | T1 | ex-PI-CW3 | EXT-2026-00148 | 04/28 | 19.90 | 31.58 | 30.71 | 31.25 | 31.30 | 29.65 | 30.70 | - | - | 30.87 | 2.24 | 1.93 | -0.22 | ❄ 웜업/접지 향상 (Warm-up) |
+| 26RE040025KF | lane4 | wet | T2 | 1st-IW01-X13 | KPKT1033338X00013 | 04/28 | 21.60 | 32.52 | 31.66 | 31.57 | 32.57 | 31.44 | 31.84 | - | - | 31.93 | 1.54 | 1.13 | -0.09 | 안정적 (Stable) |
+| 26RE040025KF | lane4 | wet | T3 | 1st-IW01-X14 | KPKT1033338X00014 | 04/28 | 23.40 | 32.71 | 31.21 | 32.49 | 31.00 | 31.51 | 32.09 | - | - | 31.83 | 2.20 | 1.71 | -0.11 | ❄ 웜업/접지 향상 (Warm-up) |
+| 26RE040025KF | lane4 | wet | T4 | 1st-IW01-X15 | KPKT1033338X00015 | 04/28 | 23.90 | 32.13 | 32.03 | 31.86 | 31.19 | 31.82 | 31.84 | - | - | 31.81 | 1.03 | 0.94 | -0.08 | 안정적 (Stable) |
+| 26RE040025KF | lane8 | dry | C1 | ex-MC-AP7 | EXT-2026-00147 | 04/29 | 0.00 | 43.09 | 43.81 | 43.32 | 43.26 | 44.11 | 43.01 | 44.27 | - | 43.55 | 1.17 | 1.26 | 0.10 | 안정적 (Stable) |
+| 26RE040025KF | lane8 | dry | C2 | ex-MC-AP7 | EXT-2026-00147 | 04/29 | 0.00 | 43.00 | 43.52 | 43.29 | 43.35 | 43.78 | 44.78 | 44.06 | - | 43.68 | 1.36 | 1.78 | 0.22 | ⚠ 점진적 열화 (Fade) |
+| 26RE040025KF | lane8 | dry | T1 | ex-PI-CW3 | EXT-2026-00148 | 04/29 | 0.00 | 41.32 | 42.61 | 42.41 | 44.32 | 43.99 | 44.28 | 44.81 | - | 43.39 | 2.96 | 3.49 | 0.55 | ⚠ 점진적 열화 (Fade) |
+| 26RE040025KF | lane8 | dry | T2 | 1st-IW01-X13 | KPKT1033338X00013 | 04/29 | 0.00 | 43.32 | 42.70 | 44.48 | 44.89 | 44.27 | 45.78 | 45.95 | - | 44.49 | 2.69 | 3.25 | 0.49 | ⚠ 점진적 열화 (Fade) |
+| 26RE040025KF | lane8 | dry | T3 | 1st-IW01-X14 | KPKT1033338X00014 | 04/29 | 0.00 | 42.70 | 43.31 | 43.78 | 44.77 | 45.03 | 45.64 | 46.03 | - | 44.46 | 2.77 | 3.32 | 0.57 | ⚠ 점진적 열화 (Fade) |
+| 26RE040025KF | lane8 | dry | T4 | 1st-IW01-X15 | KPKT1033338X00015 | 04/29 | 0.00 | 43.86 | 43.76 | 44.24 | 44.43 | 45.23 | 45.47 | 45.68 | - | 44.67 | 1.76 | 1.92 | 0.35 | ⚠ 점진적 열화 (Fade) |
+| 26RE060023KF | lane4 | wet | C1 | 2nd-IW01-X18 | KPKT1033338X00018 | 06/24 | 24.50 | 33.83 | 34.14 | 34.08 | 34.36 | 35.18 | 35.29 | 34.53 | - | 34.49 | 1.61 | 1.46 | 0.20 | ⚠ 점진적 열화 (Fade) |
+| 26RE060023KF | lane4 | wet | C2 | 2nd-IW01-X18 | KPKT1033338X00018 | 06/24 | 27.80 | 34.84 | 35.17 | 36.13 | 35.09 | 35.58 | 35.24 | 35.47 | - | 35.36 | 1.18 | 1.29 | 0.05 | 안정적 (Stable) |
+| 26RE060023KF | lane4 | wet | T1 | 2nd-IW01-X17 | KPKT1033338X00017 | 06/24 | 25.00 | 34.96 | 35.11 | 35.11 | 34.55 | 35.66 | 34.91 | 35.92 | - | 35.18 | 1.32 | 1.37 | 0.11 | ⚠ 점진적 열화 (Fade) |
+| 26RE060023KF | lane4 | wet | T2 | 2nd-QW01A-X00 | KPKT1039979X00000 | 06/24 | 25.60 | 35.04 | 36.48 | 34.82 | 36.44 | 35.15 | 35.58 | 35.43 | 35.70 | 35.58 | 1.73 | 1.66 | 0.00 | 안정적 (Stable) |
+| 26RE060023KF | lane4 | wet | T3 | 2nd-QW01B-X00 | KPKT1039980X00000 | 06/24 | 26.90 | 34.68 | 34.24 | 35.22 | 35.89 | 34.85 | 35.67 | 36.61 | 34.80 | 35.24 | 2.18 | 2.37 | 0.15 | ⚠ 점진적 열화 (Fade) |
+| 26RE060023KF | lane4 | wet | T4 | ex-MC-AP7 | EXT-2026-00147 | 06/24 | 27.80 | 35.41 | 36.22 | 36.49 | 36.82 | 36.08 | 37.80 | 38.15 | 36.67 | 36.72 | 2.29 | 2.74 | 0.19 | ⚠ 점진적 열화 (Fade) |
+| 26RE060023KF | lane8 | dry | C1 | 2nd-IW01-X18 | KPKT1033338X00018 | 06/25 | 37.80 | 45.83 | 46.92 | 47.40 | 47.59 | 48.19 | 47.62 | 48.37 | 48.07 | 47.50 | 1.72 | 2.53 | 0.29 | ⚠ 점진적 열화 (Fade) |
+| 26RE060023KF | lane8 | dry | T1 | 2nd-IW01-X17 | KPKT1033338X00017 | 06/25 | 41.00 | 45.21 | 47.05 | 47.39 | 48.13 | 49.45 | 48.75 | 47.66 | 48.33 | 47.75 | 2.68 | 4.24 | 0.36 | ⚠ 점진적 열화 (Fade) |
+| 26RE060023KF | lane8 | dry | T2 | 2nd-QW01A-X00 | KPKT1039979X00000 | 06/25 | 44.10 | 45.86 | 46.99 | 48.01 | 48.05 | 48.90 | 48.88 | 48.07 | 48.99 | 47.97 | 2.25 | 3.13 | 0.37 | ⚠ 점진적 열화 (Fade) |
+| 26RE060023KF | lane8 | dry | T3 | 2nd-QW01B-X00 | KPKT1039980X00000 | 06/25 | 46.80 | 45.45 | 46.88 | 47.63 | 47.93 | 48.37 | 47.99 | 47.78 | 47.75 | 47.47 | 1.93 | 2.91 | 0.26 | ⚠ 점진적 열화 (Fade) |
+| 26RE060023KF | lane8 | dry | T4 | ex-MC-AP7 | EXT-2026-00147 | 06/25 | 48.00 | 45.45 | 46.22 | 46.72 | 47.23 | 48.14 | 47.70 | 46.84 | 47.69 | 47.00 | 1.87 | 2.69 | 0.27 | ⚠ 점진적 열화 (Fade) |
+| 26RE070033KF | lane1 | wet | C1 | ex-MC-AP7 | EXT-2026-00147 | 07/22 | 36.10 | 31.40 | 31.12 | 30.51 | - | - | - | - | - | 31.01 | 1.47 | 0.89 | -0.44 | ❄ 웜업/접지 향상 (Warm-up) |
+| 26RE070033KF | lane1 | wet | T1 | ex-CT-TS | EXT-2024-00280 | 07/22 | 26.00 | 31.59 | 32.03 | 31.59 | - | - | - | - | - | 31.74 | 0.80 | 0.45 | 0.00 | ✅ 초고안정 (High Stable) |
+| 26RE070033KF | lane1 | wet | T2 | 2nd-IW01-X13 | KPKT1033338X00013 | 07/22 | 35.10 | 30.95 | 30.81 | 30.15 | - | - | - | - | - | 30.64 | 1.40 | 0.80 | -0.40 | ❄ 웜업/접지 향상 (Warm-up) |
+| 26RE070033KF | lane1 | wet | T3 | 2nd-QW01A-X06 | KPKT1039979X00006 | 07/22 | 28.40 | 31.25 | 30.04 | 31.34 | - | - | - | - | - | 30.88 | 2.35 | 1.30 | 0.04 | 안정적 (Stable) |
+| 26RE070033KF | lane1 | wet | T4 | 2nd-QW01B-X04 | KPKT1039980X00004 | 07/22 | 34.40 | 29.77 | 29.52 | 29.90 | - | - | - | - | - | 29.73 | 0.66 | 0.39 | 0.07 | ✅ 초고안정 (High Stable) |
+| 26RE070033KF | lane1 | wet | C2 | ex-MC-AP7 | EXT-2026-00147 | 07/22 | 37.20 | 31.71 | 31.85 | 31.77 | - | - | - | - | - | 31.78 | 0.22 | 0.14 | 0.03 | ✅ 초고안정 (High Stable) |
+| 26RE070033KF | lane4 | wet | C1 | ex-MC-AP7 | EXT-2026-00147 | 07/22 | 36.20 | 35.54 | 35.90 | 36.13 | 35.64 | 36.30 | 36.47 | - | - | 36.00 | 1.02 | 0.94 | 0.15 | ⚠ 점진적 열화 (Fade) |
+| 26RE070033KF | lane4 | wet | T1 | ex-CT-TS | EXT-2024-00280 | 07/22 | 26.20 | 36.82 | 36.05 | 36.45 | 36.84 | 36.38 | 36.00 | - | - | 36.42 | 0.99 | 0.84 | -0.08 | 안정적 (Stable) |
+| 26RE070033KF | lane4 | wet | T2 | 2nd-IW01-X13 | KPKT1033338X00013 | 07/22 | 35.30 | 36.37 | 36.08 | 36.31 | 36.34 | 36.48 | 36.33 | - | - | 36.32 | 0.36 | 0.40 | 0.03 | ✅ 초고안정 (High Stable) |
+| 26RE070033KF | lane4 | wet | T3 | 2nd-QW01A-X06 | KPKT1039979X00006 | 07/22 | 28.30 | 36.25 | 36.38 | 37.02 | 36.71 | 36.75 | 36.72 | - | - | 36.64 | 0.76 | 0.77 | 0.09 | 안정적 (Stable) |
+| 26RE070033KF | lane4 | wet | T4 | 2nd-QW01B-X04 | KPKT1039980X00004 | 07/22 | 34.70 | 35.68 | 35.74 | 35.77 | 35.82 | 36.39 | 35.77 | - | - | 35.86 | 0.73 | 0.71 | 0.07 | 안정적 (Stable) |
+| 26RE070033KF | lane4 | wet | C2 | ex-MC-AP7 | EXT-2026-00147 | 07/22 | 36.60 | 35.98 | 36.78 | 36.42 | 36.66 | 36.78 | 36.72 | - | - | 36.56 | 0.85 | 0.80 | 0.11 | ⚠ 점진적 열화 (Fade) |
+| 26RE070033KF | lane7 | dry | C1 | ex-MC-AP7 | EXT-2026-00147 | 07/23 | 32.30 | 45.29 | 47.03 | 48.06 | 47.91 | 48.30 | 47.91 | 47.92 | - | 47.49 | 2.20 | 3.01 | 0.35 | ⚠ 점진적 열화 (Fade) |
+| 26RE070033KF | lane7 | dry | T1 | ex-CT-TS | EXT-2024-00280 | 07/23 | 34.70 | 46.23 | 47.92 | 47.88 | 48.71 | 48.48 | 48.33 | 49.14 | - | 48.10 | 1.94 | 2.91 | 0.36 | ⚠ 점진적 열화 (Fade) |
+| 26RE070033KF | lane7 | dry | T2 | 2nd-IW01-X13 | KPKT1033338X00013 | 07/23 | 36.10 | 45.53 | 46.57 | 47.27 | 48.83 | 49.06 | 48.38 | 48.55 | - | 47.74 | 2.77 | 3.54 | 0.52 | ⚠ 점진적 열화 (Fade) |
+| 26RE070033KF | lane7 | dry | T3 | 2nd-QW01A-X06 | KPKT1039979X00006 | 07/23 | 39.00 | 47.04 | 47.75 | 48.75 | 48.71 | 48.56 | 49.96 | 49.45 | - | 48.60 | 2.02 | 2.92 | 0.41 | ⚠ 점진적 열화 (Fade) |
+| 26RE070033KF | lane7 | dry | T4 | 2nd-QW01B-X04 | KPKT1039980X00004 | 07/23 | 38.80 | 46.12 | 47.57 | 48.20 | 48.95 | 48.50 | 48.62 | 49.27 | - | 48.18 | 2.19 | 3.16 | 0.42 | ⚠ 점진적 열화 (Fade) |
+| 26RE070033KF | lane7 | dry | C2 | ex-MC-AP7 | EXT-2026-00147 | 07/23 | 41.90 | 46.36 | 47.41 | 48.43 | 48.06 | 47.38 | 48.84 | 48.39 | - | 47.84 | 1.76 | 2.47 | 0.28 | ⚠ 점진적 열화 (Fade) |
+| 26RE070033KF | lane1 | wetre | C1 | ex-MC-AP7 | EXT-2026-00147 | 07/23 | 36.10 | 31.32 | 32.60 | 32.42 | 31.87 | - | - | - | - | 32.05 | 1.80 | 1.28 | 0.15 | ⚠ 점진적 열화 (Fade) |
+| 26RE070033KF | lane1 | wetre | T2 | 2nd-IW01-X13 | KPKT1033338X00013 | 07/23 | 35.10 | 32.08 | 30.84 | 31.11 | 31.10 | - | - | - | - | 31.28 | 1.74 | 1.24 | -0.27 | ❄ 웜업/접지 향상 (Warm-up) |
+| 26RE070033KF | lane1 | wetre | T4 | 2nd-QW01B-X04 | KPKT1039980X00004 | 07/23 | 34.40 | 30.25 | 30.86 | 31.10 | 30.27 | - | - | - | - | 30.62 | 1.39 | 0.85 | 0.03 | 안정적 (Stable) |
+| 26RE070033KF | lane4 | wetre | C1 | ex-MC-AP7 | EXT-2026-00147 | 07/23 | 36.20 | 35.46 | 35.46 | 35.96 | 36.03 | - | - | - | - | 35.73 | 0.87 | 0.57 | 0.22 | ⚠ 점진적 열화 (Fade) |
+| 26RE070033KF | lane4 | wetre | T2 | 2nd-IW01-X13 | KPKT1033338X00013 | 07/23 | 35.30 | 35.68 | 35.98 | 35.69 | - | - | - | - | - | 35.78 | 0.47 | 0.29 | 0.01 | ✅ 초고안정 (High Stable) |
+| 26RE070033KF | lane4 | wetre | T4 | 2nd-QW01B-X04 | KPKT1039980X00004 | 07/23 | 34.70 | 35.02 | 35.36 | 35.93 | - | - | - | - | - | 35.43 | 1.29 | 0.90 | 0.45 | ⚠ 점진적 열화 (Fade) |
+| 26RE070057KF | lane1 | wet | C1 | KP-IW01-X19 | KPKT1033338X00019 | 08/12 | 28.10 | 28.52 | 28.78 | 29.13 | 30.08 | 29.18 | - | - | - | 29.14 | 2.03 | 1.56 | 0.26 | ⚠ 점진적 열화 (Fade) |
+| 26RE070057KF | lane1 | wet | T1 | KP-IW01-X22 | KPKT1033338X00022 | 08/12 | 28.00 | 30.09 | 29.25 | 29.43 | 29.50 | 30.03 | - | - | - | 29.66 | 1.27 | 0.84 | 0.01 | 안정적 (Stable) |
+| 26RE070057KF | lane1 | wet | T2 | KP-IW01-X23 | KPKT1033338X00023 | 08/12 | 29.90 | 29.92 | 30.62 | 30.60 | 30.45 | 30.41 | - | - | - | 30.40 | 0.93 | 0.69 | 0.08 | 안정적 (Stable) |
+| 26RE070057KF | lane1 | wet | T3 | MP-IW01-X00 | MPKT1034557X00000 | 08/12 | 28.00 | 29.90 | 29.32 | 30.62 | 30.90 | 30.13 | - | - | - | 30.17 | 2.05 | 1.58 | 0.20 | ⚠ 점진적 열화 (Fade) |
+| 26RE070057KF | lane1 | wet | T4 | MP-IW01-X01 | MPKT1034557X00001 | 08/12 | 27.60 | 30.09 | 29.78 | 29.51 | 30.05 | 30.79 | - | - | - | 30.05 | 1.59 | 1.28 | 0.17 | ⚠ 점진적 열화 (Fade) |
+| 26RE070057KF | lane1 | wet | C2 | KP-IW01-X19 | KPKT1033338X00019 | 08/12 | 34.10 | 30.10 | 30.57 | 30.17 | 31.17 | 30.96 | - | - | - | 30.59 | 1.54 | 1.07 | 0.23 | ⚠ 점진적 열화 (Fade) |
+| 26RE070057KF | lane4 | wet | C1 | KP-IW01-X19 | KPKT1033338X00019 | 08/12 | 27.80 | 33.57 | 33.30 | 33.35 | - | - | - | - | - | 33.40 | 0.43 | 0.27 | -0.11 | ❄ 웜업/접지 향상 (Warm-up) |
+| 26RE070057KF | lane4 | wet | T1 | KP-IW01-X22 | KPKT1033338X00022 | 08/12 | 29.10 | 34.13 | 32.99 | 33.37 | - | - | - | - | - | 33.49 | 1.73 | 1.14 | -0.38 | ❄ 웜업/접지 향상 (Warm-up) |
+| 26RE070057KF | lane4 | wet | T2 | KP-IW01-X23 | KPKT1033338X00023 | 08/12 | 29.40 | 33.87 | 33.84 | 33.96 | - | - | - | - | - | 33.89 | 0.19 | 0.12 | 0.04 | ✅ 초고안정 (High Stable) |
+| 26RE070057KF | lane4 | wet | T3 | MP-IW01-X00 | MPKT1034557X00000 | 08/12 | 30.80 | 34.31 | 33.92 | 34.46 | - | - | - | - | - | 34.23 | 0.82 | 0.54 | 0.07 | 안정적 (Stable) |
+| 26RE070057KF | lane4 | wet | T4 | MP-IW01-X01 | MPKT1034557X00001 | 08/12 | 31.70 | 34.12 | 34.03 | 34.26 | - | - | - | - | - | 34.14 | 0.34 | 0.23 | 0.07 | ✅ 초고안정 (High Stable) |
+| 26RE070057KF | lane4 | wet | C2 | KP-IW01-X19 | KPKT1033338X00019 | 08/12 | 34.10 | 33.82 | 34.16 | 33.86 | - | - | - | - | - | 33.94 | 0.55 | 0.34 | 0.02 | ✅ 초고안정 (High Stable) |
+| 26RE070057KF | lane7 | dry | C1 | KP-IW01-X19 | KPKT1033338X00019 | 08/13 | 33.80 | 46.90 | 47.09 | 47.85 | 48.89 | 48.12 | 47.52 | 47.67 | - | 47.72 | 1.39 | 1.99 | 0.12 | ⚠ 점진적 열화 (Fade) |
+| 26RE070057KF | lane7 | dry | T1 | KP-IW01-X22 | KPKT1033338X00022 | 08/13 | 34.90 | 46.11 | 47.25 | 48.17 | 47.74 | 48.25 | 47.83 | 48.68 | - | 47.72 | 1.76 | 2.56 | 0.32 | ⚠ 점진적 열화 (Fade) |
+| 26RE070057KF | lane7 | dry | T3 | MP-IW01-X00 | MPKT1034557X00000 | 08/13 | 39.20 | 46.86 | 47.74 | 47.46 | 48.56 | 48.41 | 47.74 | 48.02 | - | 47.83 | 1.20 | 1.69 | 0.16 | ⚠ 점진적 열화 (Fade) |
+| 26RE070057KF | lane7 | dry | T4 | MP-IW01-X01 | MPKT1034557X00001 | 08/13 | 38.50 | 46.27 | 47.20 | 48.42 | 48.29 | 48.68 | 49.28 | 48.14 | - | 48.04 | 2.08 | 3.01 | 0.36 | ⚠ 점진적 열화 (Fade) |
+| 26RE070057KF | lane7 | dry | C2 | KP-IW01-X19 | KPKT1033338X00019 | 08/13 | 45.50 | 46.81 | 46.81 | 46.95 | 46.89 | 47.86 | 47.17 | 46.92 | - | 47.06 | 0.80 | 1.05 | 0.07 | 안정적 (Stable) |
+| 26RE080029KF | lane1 | wet | C1 | 2nd-IW01-X19 | KPKT1033338X00019 | 08/18 | 31.20 | 28.16 | 29.01 | 28.59 | 28.60 | 28.61 | 28.88 | - | - | 28.64 | 1.02 | 0.85 | 0.07 | 안정적 (Stable) |
+| 26RE080029KF | lane1 | wet | T2 | ex-MC-AP7 | EXT-2026-00147 | 08/18 | 32.80 | 28.97 | 28.88 | 28.40 | 28.97 | 28.80 | 29.01 | - | - | 28.84 | 0.79 | 0.61 | 0.01 | 안정적 (Stable) |
+| 26RE080029KF | lane1 | wet | T3 | 2nd-QW01A-X09 | KPKT1039979X00009 | 08/18 | 35.00 | 26.17 | 27.36 | 27.27 | 27.29 | 28.45 | 28.21 | - | - | 27.46 | 2.96 | 2.28 | 0.39 | ⚠ 점진적 열화 (Fade) |
+| 26RE080029KF | lane1 | wet | T4 | 2nd-QW01A-X10 | KPKT1039979X00010 | 08/18 | 36.10 | 26.07 | 27.08 | 27.04 | 27.54 | 27.20 | 27.50 | - | - | 27.07 | 1.97 | 1.47 | 0.23 | ⚠ 점진적 열화 (Fade) |
+| 26RE080029KF | lane1 | wet | T5 | 2nd-QW01A-X11 | KPKT1039979X00011 | 08/18 | 36.90 | 26.24 | 27.04 | 27.53 | 26.95 | 27.64 | 28.31 | - | - | 27.28 | 2.59 | 2.07 | 0.33 | ⚠ 점진적 열화 (Fade) |
+| 26RE080029KF | lane1 | wet | C2 | 2nd-IW01-X19 | KPKT1033338X00019 | 08/18 | 37.00 | 27.11 | 27.74 | 28.91 | 28.39 | 28.62 | 28.53 | - | - | 28.22 | 2.36 | 1.80 | 0.26 | ⚠ 점진적 열화 (Fade) |
+| 26RE080029KF | lane4 | wet | C1 | 2nd-IW01-X19 | KPKT1033338X00019 | 08/18 | 30.30 | 33.61 | 33.76 | 34.18 | - | - | - | - | - | 33.85 | 0.88 | 0.57 | 0.29 | ⚠ 점진적 열화 (Fade) |
+| 26RE080029KF | lane4 | wet | T2 | ex-MC-AP7 | EXT-2026-00147 | 08/18 | 33.60 | 34.87 | 35.20 | 35.23 | - | - | - | - | - | 35.10 | 0.57 | 0.36 | 0.18 | ⚠ 점진적 열화 (Fade) |
+| 26RE080029KF | lane4 | wet | T3 | 2nd-QW01A-X09 | KPKT1039979X00009 | 08/18 | 34.90 | 33.35 | 33.31 | 33.58 | - | - | - | - | - | 33.41 | 0.43 | 0.27 | 0.11 | ⚠ 점진적 열화 (Fade) |
+| 26RE080029KF | lane4 | wet | T4 | 2nd-QW01A-X10 | KPKT1039979X00010 | 08/18 | 35.60 | 32.46 | 33.19 | 33.33 | - | - | - | - | - | 32.99 | 1.41 | 0.86 | 0.43 | ⚠ 점진적 열화 (Fade) |
+| 26RE080029KF | lane4 | wet | T5 | 2nd-QW01A-X11 | KPKT1039979X00011 | 08/18 | 36.20 | 32.92 | 33.28 | 33.72 | - | - | - | - | - | 33.31 | 1.20 | 0.80 | 0.40 | ⚠ 점진적 열화 (Fade) |
+| 26RE080029KF | lane4 | wet | C2 | 2nd-IW01-X19 | KPKT1033338X00019 | 08/18 | 35.90 | 34.07 | 34.16 | 34.63 | - | - | - | - | - | 34.29 | 0.88 | 0.56 | 0.28 | ⚠ 점진적 열화 (Fade) |
+| 26RE080029KF | lane7 | dry | C1 | 2nd-IW01-X19 | KPKT1033338X00019 | 08/19 | 35.60 | 46.72 | 45.75 | 45.48 | 45.99 | 46.19 | 45.43 | 45.48 | - | 45.86 | 1.03 | 1.29 | -0.13 | ❄ 웜업/접지 향상 (Warm-up) |
+| 26RE080029KF | lane7 | dry | T2 | ex-MC-AP7 | EXT-2026-00147 | 08/19 | 38.80 | 45.42 | 46.32 | 46.34 | 47.32 | 46.91 | 47.00 | 46.81 | - | 46.59 | 1.35 | 1.90 | 0.22 | ⚠ 점진적 열화 (Fade) |
+| 26RE080029KF | lane7 | dry | T3 | 2nd-QW01A-X09 | KPKT1039979X00009 | 08/19 | 39.20 | 47.95 | 47.24 | 46.99 | 47.77 | 47.19 | 47.59 | 46.99 | - | 47.39 | 0.81 | 0.96 | -0.07 | 안정적 (Stable) |
+| 26RE080029KF | lane7 | dry | T4 | 2nd-QW01A-X10 | KPKT1039979X00010 | 08/19 | 41.80 | 47.59 | 47.22 | 47.80 | 47.58 | 48.49 | 48.04 | 48.12 | - | 47.83 | 0.87 | 1.26 | 0.14 | ⚠ 점진적 열화 (Fade) |
+| 26RE080029KF | lane7 | dry | T5 | 2nd-QW01A-X11 | KPKT1039979X00011 | 08/19 | 40.70 | 47.51 | 47.48 | 47.97 | 48.18 | 48.09 | 48.02 | 47.05 | - | 47.76 | 0.87 | 1.13 | -0.01 | 안정적 (Stable) |
+| 26RE080030KF | lane1 | wet | T2 | 2nd-QW01B-X06 | KPKT1039980X00006 | 08/20 | 28.50 | 26.43 | 26.24 | 26.67 | 26.33 | 27.05 | 27.64 | - | - | 26.73 | 2.00 | 1.40 | 0.23 | ⚠ 점진적 열화 (Fade) |
+| 26RE080030KF | lane1 | wet | T3 | 2nd-QW01B-X07 | KPKT1039980X00007 | 08/20 | 28.00 | 26.13 | 26.43 | 26.46 | 26.49 | 26.76 | 27.49 | - | - | 26.63 | 1.76 | 1.36 | 0.22 | ⚠ 점진적 열화 (Fade) |
+| 26RE080030KF | lane1 | wet | T4 | 2nd-QW01B-X08 | KPKT1039979X00008 | 08/20 | 29.00 | 25.84 | 26.84 | 26.88 | 26.91 | 26.67 | 27.04 | - | - | 26.70 | 1.63 | 1.20 | 0.16 | ⚠ 점진적 열화 (Fade) |
+| 26RE080030KF | lane1 | wet | C1 | 2nd-IW01-X19 | KPKT1033338X00019 | 08/20 | 29.10 | 26.01 | 26.32 | 26.77 | 27.02 | 26.93 | 27.48 | - | - | 26.76 | 1.96 | 1.46 | 0.27 | ⚠ 점진적 열화 (Fade) |
+| 26RE080030KF | lane1 | wet | T1 | ex-CT-TS | EXT-2024-00280 | 08/20 | 29.10 | 26.75 | 27.43 | 26.93 | 26.24 | 26.57 | 26.73 | - | - | 26.78 | 1.48 | 1.19 | -0.10 | 안정적 (Stable) |
+| 26RE080030KF | lane4 | wet | T1 | ex-CT-TS | EXT-2024-00280 | 08/20 | 27.30 | 33.60 | 34.32 | 33.95 | 34.66 | - | - | - | - | 34.13 | 1.35 | 1.06 | 0.28 | ⚠ 점진적 열화 (Fade) |
+| 26RE080030KF | lane4 | wet | T2 | 2nd-QW01B-X06 | KPKT1039980X00006 | 08/20 | 28.20 | 34.83 | 35.34 | 35.36 | - | - | - | - | - | 35.18 | 0.86 | 0.53 | 0.27 | ⚠ 점진적 열화 (Fade) |
+| 26RE080030KF | lane4 | wet | T3 | 2nd-QW01B-X07 | KPKT1039980X00007 | 08/20 | 28.20 | 34.32 | 34.51 | 34.69 | - | - | - | - | - | 34.51 | 0.54 | 0.37 | 0.18 | ⚠ 점진적 열화 (Fade) |
+| 26RE080030KF | lane4 | wet | T4 | 2nd-QW01B-X08 | KPKT1039979X00008 | 08/20 | 29.30 | 34.51 | 34.47 | 34.32 | - | - | - | - | - | 34.44 | 0.29 | 0.19 | -0.10 | ✅ 초고안정 (High Stable) |
+| 26RE080030KF | lane4 | wet | C1 | 2nd-IW01-X19 | KPKT1033338X00019 | 08/20 | 28.80 | 34.36 | 33.69 | 34.64 | 34.40 | - | - | - | - | 34.27 | 1.19 | 0.95 | 0.11 | ⚠ 점진적 열화 (Fade) |
+| 26RE080030KF | lane7 | dry | C1 | 2nd-IW01-X19 | KPKT1033338X00019 | 08/24 | 38.70 | 45.00 | 45.05 | 45.14 | 45.49 | 44.99 | 44.88 | 44.85 | - | 45.06 | 0.48 | 0.65 | -0.03 | 안정적 (Stable) |
+| 26RE080030KF | lane7 | dry | T1 | ex-CT-TS | EXT-2024-00280 | 08/24 | 40.10 | 45.30 | 45.22 | 45.69 | 45.48 | 45.90 | 45.18 | 45.34 | - | 45.44 | 0.58 | 0.72 | 0.01 | 안정적 (Stable) |
+| 26RE080030KF | lane7 | dry | T2 | 2nd-QW01B-X06 | KPKT1039980X00006 | 08/24 | 40.60 | 47.02 | 46.64 | 46.88 | 47.49 | 48.14 | 46.98 | 46.34 | - | 47.07 | 1.25 | 1.80 | -0.00 | 안정적 (Stable) |
+| 26RE080030KF | lane7 | dry | T3 | 2nd-QW01B-X07 | KPKT1039980X00007 | 08/24 | 44.80 | 47.09 | 47.48 | 47.93 | 47.62 | 46.99 | 47.38 | 45.94 | - | 47.20 | 1.35 | 1.99 | -0.16 | ❄ 웜업/접지 향상 (Warm-up) |
+| 26RE080030KF | lane7 | dry | T4 | 2nd-QW01B-X08 | KPKT1039979X00008 | 08/24 | 47.10 | 47.15 | 48.03 | 49.05 | 49.47 | 49.36 | 49.13 | 48.22 | - | 48.63 | 1.76 | 2.32 | 0.20 | ⚠ 점진적 열화 (Fade) |
+| 26RE080030KF | lane7 | dry | C2 | 2nd-IW01-X19 | KPKT1033338X00019 | 08/24 | 52.30 | 45.82 | 45.89 | 45.82 | 46.66 | 45.51 | 44.38 | - | - | 45.68 | 1.62 | 2.27 | -0.21 | ❄ 웜업/접지 향상 (Warm-up) |
 
 
 ### 9.3. 반복 횟수별 성능변화 시각화 차트
